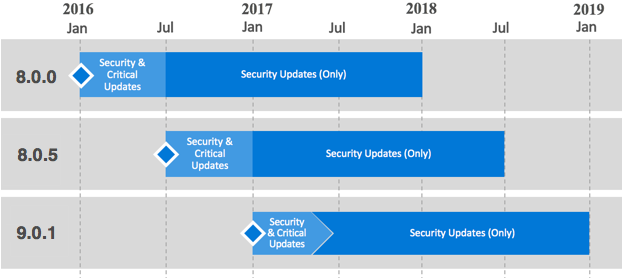
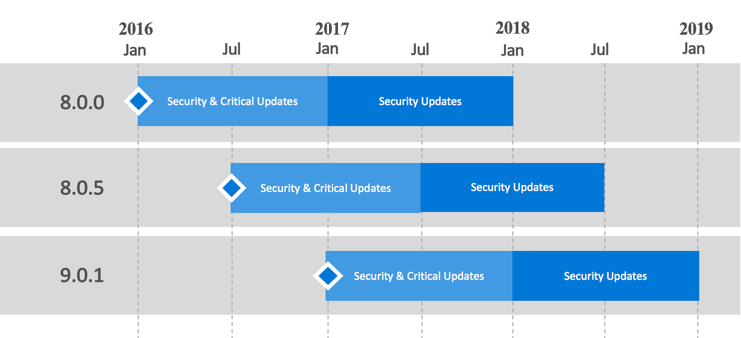
R Server support cycle

diff --git a/microsoft-r/rserver-servicing-support.md b/microsoft-r/rserver-servicing-support.md
@@ -23,25 +23,19 @@ ms.technology: "r-server"
 ms.custom: ""
 
 ---
-# Support for Microsoft R Server Versions
+# Support Timeline for Microsoft R Server
 
-Microsoft plans to release updates for Microsoft R Server a few times per year with each update version supported for two (2) years from its general availability (GA) release date. Technical support will be provided for the entire two (2) years. However, our support structure is now dynamic, evolving into two distinct servicing phases that depend on the availability of the latest version.  
-+ Security and Critical Updates servicing phase - When running the latest version of Microsoft R Server, you will receive both Security and Critical updates.
-+ Security Updates (Only) servicing phase - After a new version of Microsoft R Server is released, support for older versions will reduce to Security updates only for the remainder of the two (2) year support lifecycle (shown in Figure 1).  
+Microsoft R Server will be released a few times per year with each update version supported for two (2) years from its general availability (GA) release date. Furthermore, customers will also receive critical updates for the first year from general availability (GA) of each release as shown in the diagram below. 
 
-## Support Timeline
+This support policy allows us to deliver innovation to customers at a rapid rate while providing flexibility for customers to adopt the innovation at their pace. 
+
 ![Servicing Support](./media/rserver-servicing-support.png)
 <br>_Figure 1. Example of servicing support_
 
 <br>
 
->[!NOTE]
->The latest version of Microsoft R Server is always in the Security and Critical Updates servicing phase. This means that in the event that you encounter a code defect that warrants a critical update, you must have the latest version installed in order to receive a fix. All other supported versions will only be eligible to receive security updates. All support ends after the two (2) year lifecycle for a current branch version has expired. At that time, customers must update to a supported version.
-
-<br>
-
 |Version History|Availability                       |Support End Date                  |
 |:-------------------:|:---------------------------------:|:--------------------------------:|
-|8.0.0                |1/1/2016                           |1/1/2018                          |
-|8.0.5|7/1/2016|7/1/2018|
-|9.0.1|1/1/2017|1/1/2019|
+|Microsoft R Server 8.0.0                |1/1/2016                           |1/1/2018                          |
+|Microsoft R Server 8.0.5|7/1/2016|7/1/2018|
+|Microsoft R Server 9.0.1|1/1/2017|1/1/2019|
